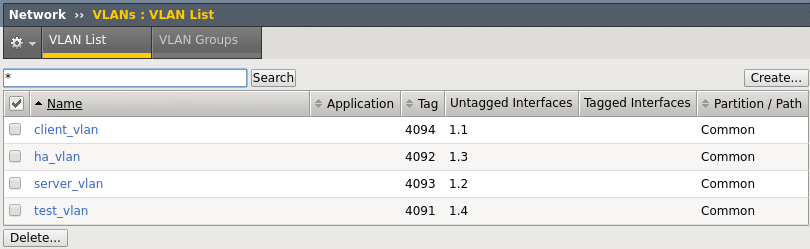
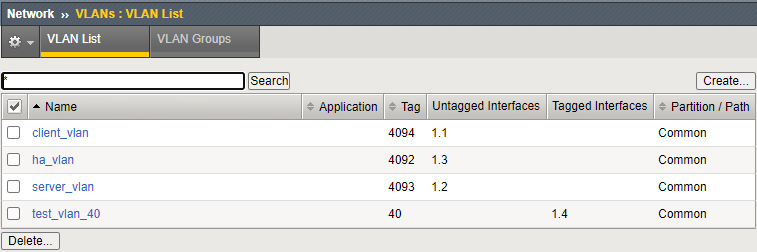
changes to network lab and challenge lab module 1

diff --git a/docs/class4/module5/lab4.rst b/docs/class4/module5/lab4.rst
@@ -34,12 +34,9 @@ Since I can see all pool members are functioning I would suspect the
 monitor is the issue. You could start debugging the monitor directly, or
 you could put the default HTTP monitor and see if the pool members
 come up. If they do, then the monitor is the issue and needs correction.
-In the case, you would check the Send and Receive strings. I would use a
+You would check the Send and Receive strings. I would use a
 curl -i (to include the header and response codes) to look for the
-receive string. In this case it's obvious, we are looking for a 200 OK
-(successful reponse), but have fat-finger 020 OK in the Receive box.
-Correct the receive string and reapply the monitor. The pool should come
-up Available (Green).
+receive string. If you cannot find the receive string then you will have to alter the receive to something that is returned in the page.  In this case the Receive String *f5 vlab demo* is not the response (the monitor is not case sensitive), but *f5 vlab* is, so you can simply delete *demo*.
 
 .. Note:: 
 
@@ -66,11 +63,11 @@ server and leave toward the pool?*
 
 I would create two tcpdumps one on the client-side and the other on the
 server-side. I would want to limit the captures to watch for my PC IP
-address 10.1.10.51. You will need two terminal windows.
+address 10.1.10.6. You will need two terminal windows.
 
 Terminal Window 1 (Client to BIG-IP)
 
-**tcpdump -i client\_vlan -X -s0 host 10.1.10.51 and 10.1.10.105**
+**tcpdump -i client\_vlan -X -s0 host 10.1.10.6 and 10.1.10.105**
 
 (This command will only watch client-side traffic between the PC and
 virtual server. The -s0 command will dump the entire packet -X command
@@ -79,7 +76,7 @@ HTTP request and response in the dump)
 
 Terminal Window 2 (BIG-IP to Pool)
 
-**tcpdump -i server\_vlan -X -s0 host 10.1.10.51**
+**tcpdump -i server\_vlan -X -s0 host 10.1.10.6**
 
 (This command will only watch server-side traffic from the PC and to the
 pool. The -s0 command will dump the entire packet -X command will dump
@@ -95,25 +92,22 @@ Window 2 BIG-IP should have picked a pool member and sent traffic to it.
 *Q10. Did you see the return traffic? If there was no response, what is
 your step?*
 
-No, you should not have received a response. Because the BIG-IP is not
-the default gateway, so the response went someplace else.
+No, you did not received a response. Because the BIG-IP is not
+the default gateway for the server, so the response went someplace else.
 
-1. You can add and SNAT Pool or do SNAT Automap on the virtual server.
-
-2. You can add 10.1.20.240 as a self IP address on the BIG-IP. This
-   should be a floating IP in traffic\_group\_1 so that the default
-   gateway for the servers is still available upon failover.
+- In this case you will need to add a SNAT Pool or do SNAT Automap on the virtual server.
+- You could modify the default gateway of the server to point to an IP address on the BIG-IP. The self IP address should be a floating IP in traffic\_group\_1 so that the default gateway for the server is still available upon failover.
 
 Working with profiles
 ~~~~~~~~~~~~~~~~~~~~~
 
 *Q1. Did site work? Why not?*
 
-SSL connection error
+You met with an SSL protocol error, we are coming in on port 443 but there is not certificate exchange.
 
-*Q2. Did site work?*
+*Q2. Did site work? What did the traffic look like on either side of the tcpdumps?*
 
-Yes
+Yes, the page should have been received.  In the tcpdump on the client side the request was encrypted. On the server side the request was readable.
 
 *Q3. What was needed to add cookie persistence?*
 

diff --git a/docs/class4/module4/lab1.rst b/docs/class4/module4/lab1.rst
@@ -16,7 +16,7 @@ a network issue, a server issue, a BIG-IP configuration issue.
 
 *Q1. Where would you start?*
 
-SSH to **bigip01** at 10.1.1.245.
+SSH to **bigip01** at 10.1.1.4.
 
 *Q2. Attempt to ping he pool members. Does it work? What does this tell
 you?*
@@ -24,7 +24,7 @@ you?*
 *Q3. Attempt a* **curl -i** *against the pool members. Does it work? What
 does this tell you?*
 
-*Q4. Since the problem affects all pool members, what would you suspect
+*Q4. If you can ping and curl to the pool members, what would you suspect
 as a possible issue?*
 
 Find and correct the issue.
@@ -42,7 +42,7 @@ the page through the virtual?*
 processing traffic?*
 
 You need to watch traffic from your PC to the BIG-IP virtual server and
-from the BIG-IP to the pool.
+from the BIG-IP to the pool.  The IP address of you client machine on the client subnet is 10.1.10.6.
 
 *Q8. What command(s) could you use to watch traffic hit the virtual
 server and leave toward the pool?*
@@ -54,34 +54,27 @@ server and leave toward the pool?*
 *Q9. Did you see traffic hit the virtual server? Did you see BIG-IP send
 traffic to a pool member?*
 
-*Q10. Did you see the return traffic? If there was no response, what is
-your step?*
-
-Remember the server's default gateway is 10.1.20.240, which is an **unused** IP
-address on the 10.1.20.0/24 network.
-
-There were two ways to resolve the virtual server issue. Your purple\_vs
-should now be available.
+*Q10. Did you see the return traffic? If there was no response, what can you do to guarantee traffic returns to the BIG-IP?*
 
 Working with profiles
 ---------------------
 
 Create new virtual server **secure\_vs 10.1.10.100:443** with **TCP** profile,
-use SNAT and the **www\_pool**. Open tcpdumps to view traffic on both sides of the proxy. Browse to **https://10.1.10.100** and view the tcpdumps.
+set the source address translation (SNAT) to **Auto Map** and the **www\_pool**. Open tcpdumps to view traffic on both sides of the proxy. Browse to **https://10.1.10.100** and view the tcpdumps.
 
 *Q1. Did site work? Why not?*
 
-Change SSL Profile to include clientssl then update Browse to
+Change SSL Profile to include clientssl then Update.  Browse to
 **https://10.1.10.100** and observe tcpdumps.
 
-*Q2. Did site work?*
+*Q2. Did site work? What did the traffic look like on either side of the tcpdumps?*
 
 Enable cookies Default Persistence Profile and update? Note error and
 troubleshoot to fix.
 
 *Q3. What was needed to add cookie persistence?*
 
-Open the Chromium inspect window (right-click and Inspect in the browser window. Browse to **https://10.1.10.100/index.php** and find the header information and the cookie(s).
+Open the Chromium inspect window. Browse to **https://10.1.10.100/** right-click on the page and select **Inspect**. Refresh the page. Select **Network** from the Inspect window, select any response and look in the header information to find the cookie(s).
 
 *Q4. What does the name of the BIG-IP cookie inserted begin with?*
 

diff --git a/docs/class4/module1/lab2.rst b/docs/class4/module1/lab2.rst
@@ -17,20 +17,20 @@ Click on **Interfaces** or click on **Interface List** on the pop out menu.  Her
 Create a VLAN
 -------------
 
-VLANs on the BIG-IP can be tagged (802.1q) or untagged.  VLANs are required to have an interface assigned to them and a tag, if the Interfaces is Tagged.  You will be creating an untagged VLAN.
+VLANs on the BIG-IP can be tagged (802.1q) or untagged.  VLANs are required to have an interface or trunk assigned to them. A VLAN tag will be added automatically if not input by the administrator. If the interface is Tagged you will want to enter the appropriate VLAN tag.  You will be creating an tagged VLAN.
 
 On the **Network** sidebar click on **VLANs** or select **VLAN List** from the pop out menu.  Here you will see a list of the currently configured VLANs and the interfaces assigned to them.
 
 - Create a new VLAN by selecting the **Create** to the upper right of the list.
-- Give the new VLAN a name:   **test_vlan**
+- Give the new VLAN a name:   **test_vlan_40**
 - In the Resources section select the Interface: **1.4**
-- In the Resources section select the Tagging: **Untagged**
+- In the Resources section select the Tagging: **Tagged**
 - **Add** the interface.
 - Hit **Finished** at the bottom.
 
 .. admonition:: TMSH
 
-   tmsh create net vlan test_vlan tag 40 interfaces add { 1.4 { untagged } }
+   tmsh create net vlan test_vlan_40 tag 40 interfaces add { 1.4 { tagged } }
 
 Once complete you should see the following:
 
@@ -54,7 +54,7 @@ To assign a self IP, go to **Network >> Self IPs >> Self IP List** from the side
 
 .. admonition:: TMSH
 
-   tmsh create net self test_selfIP address 10.1.30.245/24 vlan test_vlan
+   tmsh create net self test_selfIP address 10.1.40.245/24 vlan test_vlan
 
 Once complete you should see the following:
 
@@ -85,10 +85,11 @@ On the BIG-IP go into TMSH and run the following commands and note the differenc
 
 .. admonition:: TMSH
 
-   list net interface
-   show net interface
-   list net vlan
-   show net vlan
-   list net self
-   show net self
+   - list net interface
+   - show net interface
+   - list net vlan
+   - show net vlan
+   - list net self
+   - show net self
 
+As you could see *list* commmands showed the configuration, while the *show* command display status and statistics.

diff --git a/docs/class4/module4/module4.rst b/docs/class4/module4/module4.rst
@@ -1,7 +1,7 @@
 Module 4 – Challenge Labs
 =========================
 
-The challenge labs are design to have you put your BIG-IP knowledge to work making modificatons and resolving issues with little or no guidance.  To cover labs that are too long or disruptive to do during the training.  Or, to cover topics that aren't on the blueprint but may consitute a question or two on the exam.
+The challenge labs are design to have you put your BIG-IP knowledge to work making modificatons and resolving issues with little or no guidance, to cover labs that are too long or disruptive to do during the training, or to cover topics that aren't on the blueprint but may consitute a question or two on the exam.
 
 
 The challenge labs below are available for you to take advantage of.

diff --git a/docs/class4/module4/lab3.rst b/docs/class4/module4/lab3.rst
@@ -65,14 +65,12 @@ Build the iApp using the following information:
 
 Review the status and components built by the iApp.
 
-From both the Chromium and Firefox browsers go to **http://10.1.10.110**
+From a couple of Chromium Incognito windows go to **http://10.1.10.110**
 and refresh the page several times and the select the following links
 from the page on each browser.
 
 **Request and Response Headers Allowed** *(review the request and
 response headers)*
-
-**HTTP Compress Example**
 
 **Multiple Stream Example**
 

diff --git a/docs/class4/class4.rst b/docs/class4/class4.rst
@@ -1,5 +1,7 @@
-F5 201 - TMOS Administration Labs - Created 08/11/2020
-======================================================
+F5 201 - TMOS Administration Labs (V13.1)
+=========================================
+- *Created 08/11/2020*
+- *Updated 01/13/2021*
 
 |
 |
